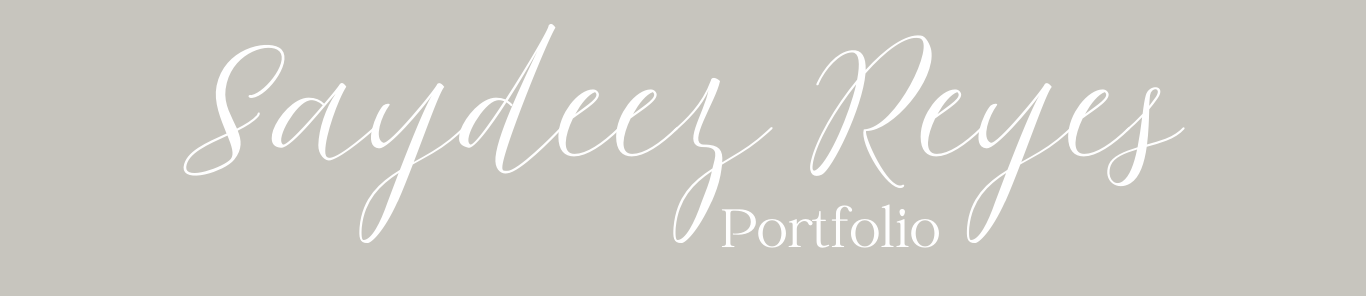
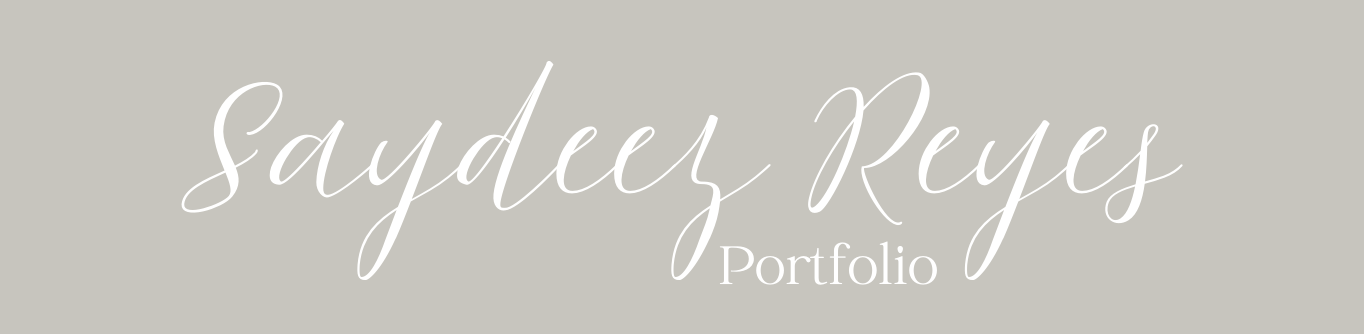
fixed Intro styling and responsiveness to resume section

diff --git a/src/components/Resume.jsx b/src/components/Resume.jsx
@@ -1,54 +1,45 @@
-import { Button, Col, Container, Row, Image } from "react-bootstrap";
+import { Col, Accordion, Row, Image } from "react-bootstrap";
 
 function Resume() {
     return (
-        <Container className="resume-container">
-            <Row>
-                <Col>
-                <Container className="Card flex justify-center skill-container">
-                        <Row>
-                            <Col>
-                            <ul className="skills">Skills:</ul>
-                                <hr></hr>
-                                <br></br>
-                                <ul><i className="fab fa-html5 mr-2"></i>HTML</ul>
-                                <ul><i className="fab fa-css3-alt mr-2"></i>CSS</ul>
-                                <ul><i className="fab fa-js-square mr-2"></i>JavaScript</ul>
-                                <ul><i className="fab fa-react mr-2"></i>React</ul>
-                                <ul><i className="fab fa-node mr-2"></i>Node</ul>
-                                <ul><i className="fas fa-server mr-2"></i>Express</ul>
-                                <ul><i className="fas fa-database mr-2"></i>MySql</ul>
-                                <ul><i className="fas fa-database mr-2"></i>Postgres</ul>
-                                <ul><i className="fas fa-database mr-2"></i>MongoDB</ul>
-                            </Col>
-                            <Col xs lg="1">
-                                <div className="vertical-hr"></div>
-                            </Col>
-                            <Col className="center-col temp" >
-                                <p><i className="fa-solid fa-check"></i> MERN STACK</p>
-                                <p><i className="fa-solid fa-check"></i> FULLSTACK DEVELOPMENT</p>
-                                <p><i className="fa-solid fa-check"></i> UCF CERTIFIED</p>
-                                <br></br>
-                                <hr></hr>
-                                <Image className="skill-pic" src='images/S.png'></Image>
-                                <a href='download/Resume 2024.pdf' download="Resume 2024.pdf" className="res-btn">
-                                    <button>Download Resume</button>
-                                </a>
-                            </Col>
-                        </Row>
-                    </Container>
-                </Col>
-                <Col>
+            <Row className="resume-container">
+                <Col xs={12} lg={5}>
+                <div className="resume-header">Resume</div>
                 <Image className="res" src='images/resume.png'></Image>
-                
                 </Col>
-                <Col xs lg="1">
-                    <div className="vertical-text">
-                        Resume
-                    </div>
+
+                <Col xs={12} lg={7}>
+                    <Row>
+                        <h1 className="skills">Skills & </h1>
+                        <h1 className="underneath">Abilities</h1>
+                    </Row>
+                    <Row>
+                        <Col>
+                            <ul className='item text-center'><i className="fab fa-html5 mr-2"></i> HTML</ul>
+                            <ul className='item text-center'><i className="fab fa-css3-alt mr-2"></i> CSS</ul>
+                            <ul className='item text-center'><i className="fab fa-js-square mr-2"></i> JavaScript</ul>
+                        </Col>
+                        <Col>
+                            <ul className='item text-center'><i className="fab fa-react mr-2"></i> React</ul>
+                            <ul className='item text-center'><i className="fas fa-database mr-2"></i> MongoDB</ul>
+                            <ul className='item text-center'><i className="fab fa-node mr-2"></i> Node</ul>
+                        </Col>
+                        <Col>
+                            <ul className='item text-center'><i className="fas fa-server mr-2"></i> Express</ul>
+                            <ul className='item text-center'><i className="fas fa-database mr-2"></i> MySql</ul>
+                            <ul className='item text-center'><i className="fas fa-database mr-2"></i> Postgres</ul>
+                        </Col>
+                    </Row>
+                    <Row className="ms-2 top">
+                    <p className="item"><i className="fa-solid fa-check"></i> MERN STACK</p>
+                        <p className="item"><i className="fa-solid fa-check"></i> FULLSTACK DEVELOPMENT</p>
+                        <p className="item"><i className="fa-solid fa-check"></i> UCF CERTIFIED</p>
+                        <a href='download/Resume 2024.pdf' download="Resume 2024.pdf" className="res-btn">
+                            <button>Download Resume</button>
+                        </a>
+                    </Row> 
                 </Col>
             </Row>
-        </Container>
     );
 }
 

diff --git a/src/index.css b/src/index.css
@@ -1,4 +1,5 @@
 @import '@fortawesome/fontawesome-free/css/all.min.css';
+@import url('https://fonts.googleapis.com/css2?family=Italianno&display=swap');
 
 body {
   font-family: Inter, system-ui, Avenir, Helvetica, Arial, sans-serif;
@@ -62,7 +63,9 @@ body {
 
 /* INTRO */
 .intro-container{
-  animation: fadeIn 2s ease-in-out;
+  animation: fadeIn 3s ease-in-out;
+  background-color: #c7c5be;
+  border-top: white solid;
 }
 
 @keyframes fadeIn {
@@ -76,13 +79,15 @@ body {
 
 .intro{
   text-align: center;
-  margin: 7rem 1rem;
+  margin: 5% 2%;
+  border-top: dotted white 1px;
 }
 
 .intro-header{
   font-weight: 200;
   font-size: 1.5rem;
-  padding-top: 2rem;
+  padding-top: 5rem;
+  color: white;
 }
 
 .intro-text{
@@ -91,6 +96,7 @@ body {
   font-style: normal;
   font-size: 2.0rem;
   padding-bottom: 7rem;
+  color: white;
   /* border-bottom: rgb(163, 162, 162) dotted; */
 }
 
@@ -239,55 +245,81 @@ body {
 /* RESUME */
 .resume-container{
   width: 100%;
-  padding: 10rem 0 10rem 0;
+  padding:  3%;
 }
 
-.res{
-  width: 90%;
-  height: auto;
-  padding-left: 10px;
-  padding-top: 10px;
-  box-shadow: 0px 15px 10px -15px #6e6e6e; 
-}
-.skill-container{
-  padding: 20px;
-}
-.skills{
+/* .skills{
   font-weight: 300;
   font-family: "Bodoni Moda SC", serif;
   font-size: 75px;
   padding: 10px;
+} */
+
+.skills{
+  font-family: "Bodoni Moda SC", serif;
+  font-style: normal;
+  font-size: 4.5rem;
+  padding-top: 7% ;
 }
 
-.vertical-hr {
-  border-left: 1px solid #d8d8d8;
-  height: 650px; 
-  margin: 20px 0px; 
-}
-.temp{
-  padding-top: 95px;
+.underneath{
+  font-family: "Italianno", cursive;
+  font-style: normal;
+  font-size: 4.5rem;
+  margin-top: -4%;
+  margin-left: 3.5rem;
 }
 
-.skill-pic{
-  width: 100%;
+.top{
+  padding: 8% 0;
+}
+
+.item{
+  /* border: black solid; */
+  box-shadow: 10px 15px 10px -12px #6e6e6e; 
+  padding: 15px;
+  font-weight: 600;
+}
+
+.res{
+  width: 75%;
   height: auto;
-  padding-top: 25px;
+  padding-left: 25px;
+  padding-top: 10px;
+  box-shadow: 10px 15px 10px -10px #6e6e6e; 
+}
+
+.res-btn{
+  font-family: "Bodoni Moda SC", serif;
+  text-decoration: none;
+  color: white;
+  margin: 5% 0;
+}
+ .res-btn button{
+  padding: 15px;
+ border-radius: 15px;
  }
 
- .res-btn{
-  margin: 0px 55px;
- }
-
- .vertical-text {
-  writing-mode: horizontal-tb;
-  text-orientation: upright; 
-  transform: rotate(90deg); 
-  transform-origin: center 45%  ;
+ .resume-header{
+  top: 0;
+  display: flex;
+  align-items: flex-start;
   font-weight: 600;
   font-size: 145px;
   color: #a0a0a057;
-  font-family: Georgia, Times, 'Times New Roman', serif;
+  font-family: "Bodoni Moda SC", serif;
   text-shadow:2px 2px 5px #f2f2f2;
+}
+
+@media (max-width: 768px) {
+  .resume-header {
+    font-size: 80px;
+    padding-left: 20px; 
+    padding-bottom: 10px; 
+  }
+  .res{
+    width: 100%;
+  }
 }
 
  /* CONTACT */

diff --git a/src/components/Intro.jsx b/src/components/Intro.jsx
@@ -4,14 +4,10 @@ import Button from 'react-bootstrap/Button';
 function Intro() {
     return (
       <div className="container-fluid p-0 intro-container">
-        <Image src="/images/Saydeez Reyes.png" fluid className="w-100" />
+        <Image src="/images/Saydeez Reyes.png" fluid className="w-100"/>
         <div className='intro'>
           <h1 className='intro-header'>Full Stack Web Developer</h1>
           <p className='intro-text'>Ready to tackle on projects with innovative design and clean, functional code. Let’s build something amazing together!</p>
-          {/* <svg viewBox="0 0 800 100" xmlns="http://www.w3.org/2000/svg" className="responsive-svg">
-          <path d="M10 50 Q 25 20, 40 50 T 70 50 T 100 50 T 130 50 T 160 50 T 190 50 T 220 50 T 250 50 T 280 50 T 310 50 T 340 50 T 370 50 T 400 50 T 430 50 T 460 50 T 490 50 T 520 50 T 550 50 T 580 50 T 610 50 T 640 50 T 670 50 T 700 50 T 730 50 T 760 50 T 790 50" 
-                  stroke="black" fill="transparent" />
-          </svg> */}
         </div>
         
       </div>

diff --git a/src/components/Work.jsx b/src/components/Work.jsx
@@ -7,8 +7,8 @@ function Work() {
             <Row className='project-header'>
                 <Col xs={12} md={8} className='project-title'>Work in <span className='span'> Action</span>
                     {/* <svg width="250" height="100" xmlns="http://www.w3.org/2000/svg">
-                        <text x="20" y="70" font-family="Arial" font-size="48" fill="black">&gt;&gt;&gt;&gt;&gt;&gt;&gt;</text>
-                    </svg> */}
+                            <text x="20" y="70" font-family="Arial" font-size="48" fill="black">&gt;&gt;&gt;&gt;&gt;&gt;&gt;</text>
+                        </svg> */}
                 </Col>
                 <Col md={4} className='subtitle'>Check out a few of the projects I’ve completed over the past few months.</Col>
             </Row>
